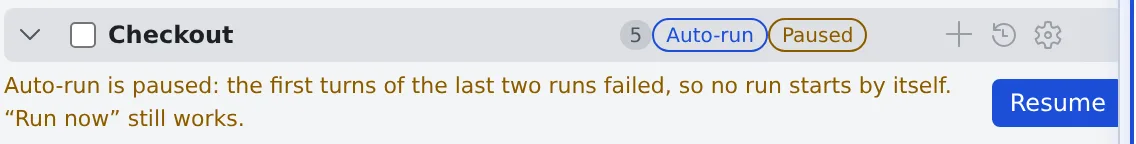
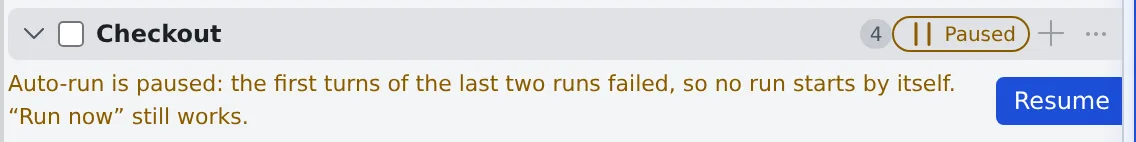
feat(console): add "Clear finished memos…" to the category head menu (#4816 part 2)
Part 2 of #4816. The category head's ⋯ menu gets "Clear finished memos…",
which deletes the category's delivered and replaced memos after a
confirmation naming the count; it is disabled, with the reason, when none
exist.

History check (the issue asked for it first): a delivery stores message
ids, not text, and the run history only shows counts, so runs stay
readable once their memos are gone. The continuation count lives on the
chain row, not on the memos. Two losses remain and the confirmation says
so: undoing a tidy run needs the replaced originals, and the memo text is
gone. A memo that waits for a deleted one would never become eligible
(the prerequisite row is gone), so a finished memo another memo still
lists in its "after" is kept.

The delete loop of the selection bar is shared (deleteMemos). The guide
(en, ja) now describes the new head and menu, the screenshot scenes that
clicked the removed head buttons use the menu, and the head screenshots
are retaken.

Verified: tsc, the memo dom tests (487 pass); mutation check by dropping
the awaited-memo filter, which fails the new test.

Refs #4816

Changed region(s): [[0.0, 0.0, 1.0, 1.0]]

diff --git a/console/src/features/memo/MemoQueueSection.tsx b/console/src/features/memo/MemoQueueSection.tsx
@@ -622,6 +622,12 @@ export const MemoQueueSection = memo(function MemoQueueSection() {
       danger: true,
     });
     if (!ok) return;
+    await deleteMemos(picked);
+  };
+
+  // Delete memos one by one, skipping a claimed one up front and counting any refusal as left. One
+  // image sweep runs after the batch; reports through a toast.
+  const deleteMemos = async (picked: Memo[]) => {
     const deletable = picked.filter((m) => m.state !== "claimed");
     let left = picked.length - deletable.length;
     let deleted = 0;
@@ -649,6 +655,33 @@ export const MemoQueueSection = memo(function MemoQueueSection() {
     }
     if (left > 0) toast(t("memo.delete_selected_left", { deleted, count: left }), { kind: "warn" });
     else toast(t("memo.delete_selected_done", { count: deleted }), { kind: "success" });
+  };
+
+  // Delete a category's finished memos (delivered, or replaced by a tidy run). Run history keeps
+  // its rows and counts (a delivery stores message ids, not text) and the continuation count lives
+  // on the chain row, so both stay readable. Two things are lost, and the dialog says so: undoing a
+  // tidy run needs the replaced originals, and a memo that waits for a deleted one would never
+  // start (its prerequisite row is gone), so a finished memo another memo still waits for is kept.
+  const clearFinished = async (c: MemoCategory) => {
+    const inCat = memos.filter((m) => m.repo === c.repo && m.category === c.name);
+    const finished = inCat.filter((m) => m.state === "delivered" || m.state === "superseded");
+    const finishedIds = new Set(finished.map((m) => m.id));
+    const awaited = new Set<string>();
+    for (const m of memos) if (!finishedIds.has(m.id)) for (const id of m.after ?? []) awaited.add(id);
+    const picked = finished.filter((m) => !awaited.has(m.id));
+    if (picked.length === 0) {
+      toast(t("memo.clear_finished_none"));
+      return;
+    }
+    const kept = finished.length - picked.length;
+    const ok = await askConfirm({
+      title: t("memo.clear_finished"),
+      body: t("memo.clear_finished_confirm", { count: picked.length, name: c.name }) + (kept > 0 ? " " + t("memo.clear_finished_kept", { count: kept }) : ""),
+      confirmLabel: t("common.delete"),
+      danger: true,
+    });
+    if (!ok) return;
+    await deleteMemos(picked);
   };
 
   // ---- categories --------------------------------------------------------------
@@ -1395,6 +1428,8 @@ export const MemoQueueSection = memo(function MemoQueueSection() {
               onHistory={() => setDeliveriesFor(c.id)}
               onSettings={() => setSettingsFor(c.id)}
               onRename={() => setRenameCat(c.id)}
+              finishedCount={memos.filter((m) => m.repo === c.repo && m.category === c.name && (m.state === "delivered" || m.state === "superseded")).length}
+              onClearFinished={() => void clearFinished(c)}
               onDelete={() => void deleteCategory(c)}
             />
           );

diff --git a/console/src/features/memo/MemoBulkDelete.dom.test.tsx b/console/src/features/memo/MemoBulkDelete.dom.test.tsx
@@ -5,6 +5,7 @@ import { afterEach, beforeEach, describe, expect, it, vi } from "vitest";
 import { act } from "react";
 import { createRoot, type Root } from "react-dom/client";
 import type { Memo, MemoCategory } from "../../types/memo.ts";
+import { headMenuItem } from "./catMenuTest.ts";
 
 let servedMemos: Memo[] = [];
 const refuse = new Set<string>();
@@ -211,5 +212,41 @@ describe("deleting the selected memos", () => {
     await click(q(".memo-cat-check"));
     // The pending note is now selected too; the hidden pick is not dropped by that click.
     expect(q(".memo-selbar-n").textContent).toContain("2");
+  });
+
+  describe("Clear finished memos", () => {
+    it("deletes delivered and replaced memos only, after a confirmation naming the count", async () => {
+      await render();
+      await click(headMenuItem({ cls: "memo-cat-menu-clear" }));
+      expect(q(".ui-confirm-body").textContent).toContain("2");
+      await click(q(".ui-confirm-actions .ui-btn-danger"));
+      expect(memoDelete.mock.calls.map((c) => c[0]).sort()).toEqual(["d1", "r1"]);
+    });
+
+    it("does nothing when cancelled", async () => {
+      await render();
+      await click(headMenuItem({ cls: "memo-cat-menu-clear" }));
+      await click(q(".ui-confirm-actions .ui-btn:not(.ui-btn-danger)"));
+      expect(memoDelete).not.toHaveBeenCalled();
+    });
+
+    it("keeps a finished memo that another memo still waits for", async () => {
+      servedMemos = servedMemos.map((m) => (m.id === "p1" ? { ...m, after: ["d1"] } : m));
+      await render();
+      await click(headMenuItem({ cls: "memo-cat-menu-clear" }));
+      expect(q(".ui-confirm-body").textContent).toContain("1");
+      await click(q(".ui-confirm-actions .ui-btn-danger"));
+      expect(memoDelete.mock.calls.map((c) => c[0])).toEqual(["r1"]);
+    });
+
+    it("is disabled when nothing is finished", async () => {
+      servedMemos = servedMemos.filter((m) => m.id === "p1" || m.id === "c1x");
+      await render();
+      const it = headMenuItem({ cls: "memo-cat-menu-clear" });
+      expect(it.getAttribute("aria-disabled")).toBe("true");
+      await click(it);
+      expect(document.querySelector(".ui-confirm-body")).toBeNull();
+      expect(memoDelete).not.toHaveBeenCalled();
+    });
   });
 });

diff --git a/console/src/lib/i18n/locales/ja/memo.ts b/console/src/lib/i18n/locales/ja/memo.ts
@@ -73,6 +73,10 @@ export const memo = {
   "memo.selected_n": "{count} 件を選択中",
   "memo.clear_selection": "選択を解除",
   "memo.delete_selected": "選択したメモを削除",
+  "memo.clear_finished": "完了したメモを削除…",
+  "memo.clear_finished_none": "削除できる完了メモはありません",
+  "memo.clear_finished_confirm": "「{name}」の完了したメモ（配信済み・置き換え済み）{count} 件を削除しますか？元に戻せません。実行履歴と実行回数は残りますが、これらのメモの本文と、置き換え済みメモの整理の取り消しはできなくなります。",
+  "memo.clear_finished_kept": "他のメモが待っている完了メモ {count} 件は残します。",
   "memo.delete_selected_confirm": "選択した {count} 件のメモを削除しますか？元に戻せません。送信中のメモは削除されません。",
   "memo.delete_selected_done": "{count} 件のメモを削除しました",
   "memo.delete_selected_left": "{deleted} 件を削除しました。{count} 件は削除できませんでした（送信中、または拒否されました）",

diff --git a/console/src/lib/i18n/locales/en/memo.ts b/console/src/lib/i18n/locales/en/memo.ts
@@ -75,6 +75,10 @@ export const memo: Record<keyof typeof jaMemo, string> = {
   "memo.selected_n": "{count} selected",
   "memo.clear_selection": "Clear selection",
   "memo.delete_selected": "Delete selected memos",
+  "memo.clear_finished": "Clear finished memos…",
+  "memo.clear_finished_none": "No finished memos to clear",
+  "memo.clear_finished_confirm": "Delete the {count} finished memos (delivered or replaced) in “{name}”? This cannot be undone. Run history and run counts stay; the text of these memos and undoing a tidy run for the replaced ones are lost.",
+  "memo.clear_finished_kept": "{count} finished memos that another memo still waits for are kept.",
   "memo.delete_selected_confirm": "Delete {count} selected memos? This cannot be undone. Memos already being sent are skipped.",
   "memo.delete_selected_done": "Deleted {count} memos",
   "memo.delete_selected_left": "Deleted {deleted}; {count} could not be deleted (already being sent, or refused)",

diff --git a/console/src/features/memo/CatHeadMenu.tsx b/console/src/features/memo/CatHeadMenu.tsx
@@ -33,6 +33,9 @@ interface Props {
   onHistory: () => void;
   onSettings: () => void;
   onRename: () => void;
+  /** Delivered and replaced memos in the category; 0 disables the item. */
+  finishedCount: number;
+  onClearFinished: () => void;
   onDelete: () => void;
 }
 
@@ -101,6 +104,7 @@ export function CatHeadMenu(p: Props) {
       {p.isQueue && item("memo-cat-menu-act", "history", tr("memo.autorun_deliveries"), p.onHistory)}
       {item("memo-cat-menu-act", "settings-gear", tr("memo.autorun_settings"), p.onSettings, p.settingsNote)}
       {item("memo-cat-rename", "edit", tr("memo.rename_category_item"), p.onRename)}
+      {item("memo-cat-menu-clear", "trash", tr("memo.clear_finished"), p.onClearFinished, p.finishedCount === 0 ? tr("memo.clear_finished_none") : "")}
       <li className="ui-menu-sep" aria-hidden="true" />
       {item("memo-cat-menu-del", "trash", tr("memo.delete_category"), p.onDelete, "", true)}
     </ul>,

diff --git a/console/src/features/memo/MemoAutorun.dom.test.tsx b/console/src/features/memo/MemoAutorun.dom.test.tsx
@@ -1712,11 +1712,12 @@ describe("the category head", () => {
     expect(document.querySelector(".memo-cat-menu")).toBeNull();
     await click(must(head().querySelector(".memo-cat-more"), "more"));
     const labels = [...document.querySelectorAll(".memo-cat-menu .ui-menu-item")].map((e) => e.textContent ?? "");
-    expect(labels).toHaveLength(6);
+    expect(labels).toHaveLength(7);
     expect(labels[0]).toContain(t("common.send"));
     expect(labels[1]).toContain(t("memo.cat_menu_run"));
     expect(labels[4]).toContain(t("memo.rename_category_item"));
-    expect(labels[5]).toContain(t("memo.delete_category"));
+    expect(labels[5]).toContain(t("memo.clear_finished"));
+    expect(labels[6]).toContain(t("memo.delete_category"));
   });
 
   it("opens the same menu on right-click and on Shift+F10, and does not fold the category", async () => {

diff --git a/guide/user/chat/memos.md b/guide/user/chat/memos.md
@@ -29,6 +29,8 @@ Memos are stored on the server, so the same queue shows on another PC or your ph
 - Attach images by pasting or dropping them into the box, or with the attach button
 - Memos are grouped by repository, and by category within it
 - A memo added from a worktree session, or from a file in a worktree, goes under the **parent repository**, not under a group of its own for that worktree. Memos already under a worktree's group stay there; drag them to move them
+- A category header keeps only the fold arrow, the tick box, the name, the count, one badge (auto-run, paused or off), **+** and **⋯**. Everything else is in the menu behind **⋯** (or a right-click on the header, or the Menu key): "**Send**", "**Run now**", "**Run history**", "**Auto-run settings**", "**Rename**", "**Clear finished memos…**" and "**Delete category**". An item that cannot act now stays listed, greyed out, with the reason under it. Drag the header to reorder categories
+  ![A category header with its ⋯ menu open: Send, Run now, Run history, Auto-run settings, Rename, Clear finished memos… and, below a line, Delete category](../../assets/chatpages-memo-cat-menu-en-light.webp)
 - Press **+** on a category header to write straight into that category. "**Add category**" creates one ahead of time
 - The send button of an open file can also "**Add to queue**" a memo about that file ([Hand a file to a session](../files/send.md#send-it-later-in-a-batch))
 - "**Save to memo**" on the "Start working" screen moves the prompt you are writing, attachments included, into the memo queue and clears the box. "**Start with this**" in the memo's **⋯** brings it back, and the memo goes away once the session starts
@@ -38,7 +40,7 @@ Memos are stored on the server, so the same queue shows on another PC or your ph
 - The body is cut to two lines. Press it to open the whole text, and press again to edit (Ctrl+Enter saves, Esc cancels)
 - "**Collapse**" under the body goes back to two lines
 - The row's **⋯** (or a right-click) offers "**Edit**", "**Send this memo**", "**Copy**" and "**Delete**"
-- Drag to reorder memos or move them to another category. Press a category's name to rename it. Deleting a category moves its memos to "**Uncategorized**"
+- Drag to reorder memos or move them to another category. Press a category's name, or choose "**Rename**" in its **⋯** menu, to rename it. Deleting a category moves its memos to "**Uncategorized**"
 
 ## Point a memo at a work item
 
@@ -70,7 +72,7 @@ rewrite above, as before.
 
 ## Send them together
 
-1. Tick the memos to send and press "**Send…**" at the bottom. "**Send**" on a category header sends that whole category
+1. Tick the memos to send and press "**Send…**" at the bottom. "**Send**" in a category's **⋯** menu sends that whole category
 
    ![The memo queue: memos of webshop and payments-api by category, two of them ticked, and "2 selected", "Clear selection" and "Send…" at the bottom](../../assets/chatpages-memos-en-light.webp)
 
@@ -85,6 +87,7 @@ rewrite above, as before.
 | Launch a new session | "**Launch & send**" opens the screen where you pick the repository and agent, with the content as the first prompt. The memos stay in the queue |
 | An assistant | A new chat with that assistant opens with the content in the input box. Check it and send. The memos stay in the queue |
 
+- "**Clear finished memos…**" in a category's **⋯** menu deletes the memos that were delivered or replaced, after asking with the count. It cannot be undone. The run history and the run counts stay, but the text of those memos is gone and a tidy run can no longer be undone for the replaced ones. A finished memo that another memo is still waiting for is kept
 - Several memos sent together become one message, with a heading per category (`## …`) and numbers from `1.`
 - A single memo is sent as its bare text
 - A memo that points at an item adds one line with the item's key and URL after its text, or alone when the memo is only the link

diff --git a/guide/user/chat/memo-auto-run.ja.md b/guide/user/chat/memo-auto-run.ja.md
@@ -24,7 +24,7 @@ source_of_truth: "Console の左ペインの「メモキュー」ビューにあ
 
 ## 設定する
 
-1. 「**メモキュー**」ビューで、設定するカテゴリの見出しにある歯車（「**自動実行の設定**」）を押します
+1. 「**メモキュー**」ビューで、設定するカテゴリの見出しの **⋯** メニュー（見出しの右クリックでも）から「**自動実行の設定**」を選びます
 2. 「**指示**」を書き、ほかの項目を決めます
 3. 「**保存**」を押します
 4. 自動で始めたいときは、「**自動で実行する**」をオンにして保存します
@@ -286,7 +286,7 @@ Issue・チケット・プルリクエストについて、その項目へのリ
 
 ### 今すぐ実行する
 
-1. メモキューのカテゴリの見出しにある「**今すぐ実行**」（再生のボタン）を押します。自動実行ビューでは、カテゴリの「**...**」メニューの「**今すぐ実行**」を選びます
+1. メモキューのカテゴリの見出しの **⋯** メニューから「**今すぐ実行**」を選びます。自動実行ビューでは、カテゴリの「**...**」メニューの「**今すぐ実行**」を選びます
 2. 「実行を開始しました。」と出ます。セッションは、次の確認（1 分ほど後）で起動します。止まっていたワークスペースは、起動に時間がかかります
 
 - 古い実行待ちのメモから、「1 セッションに渡すメモの数」の件数ぶんを 1 回の実行にまとめます。1 回押すと、1 回の実行です

diff --git a/guide/user/chat/memo-auto-run.md b/guide/user/chat/memo-auto-run.md
@@ -23,7 +23,7 @@ Auto-run is not a [schedule](../fleet/schedules.md). A schedule runs a fixed pro
 
 ## Set it up
 
-1. In the "**Memo queue**" view, press the gear ("**Auto-run settings**") in the header of the category
+1. In the "**Memo queue**" view, open the **⋯** menu in the header of the category (or right-click the header) and choose "**Auto-run settings**"
 2. Write the "**Instruction**" and decide the other fields
 3. Press "**Save**"
 4. To have it start by itself, turn on "**Run by itself**" and save again
@@ -285,7 +285,7 @@ It is all or nothing, and it is refused once a result has been used. The history
 
 ### Run now
 
-1. Press "**Run now**" (the play button) on the category's header in the Memo queue view, or choose "**Run now**" in the "**...**" menu of the category in the Auto-run view
+1. Choose "**Run now**" in the **⋯** menu of the category's header in the Memo queue view, or choose "**Run now**" in the "**...**" menu of the category in the Auto-run view
 2. "Started the run." appears. The session starts at the next check, about a minute later. A stopped workspace takes longer, because it is started first
 
 - A run takes the oldest memos waiting to run, as many as "Memos per session". One press is one run
